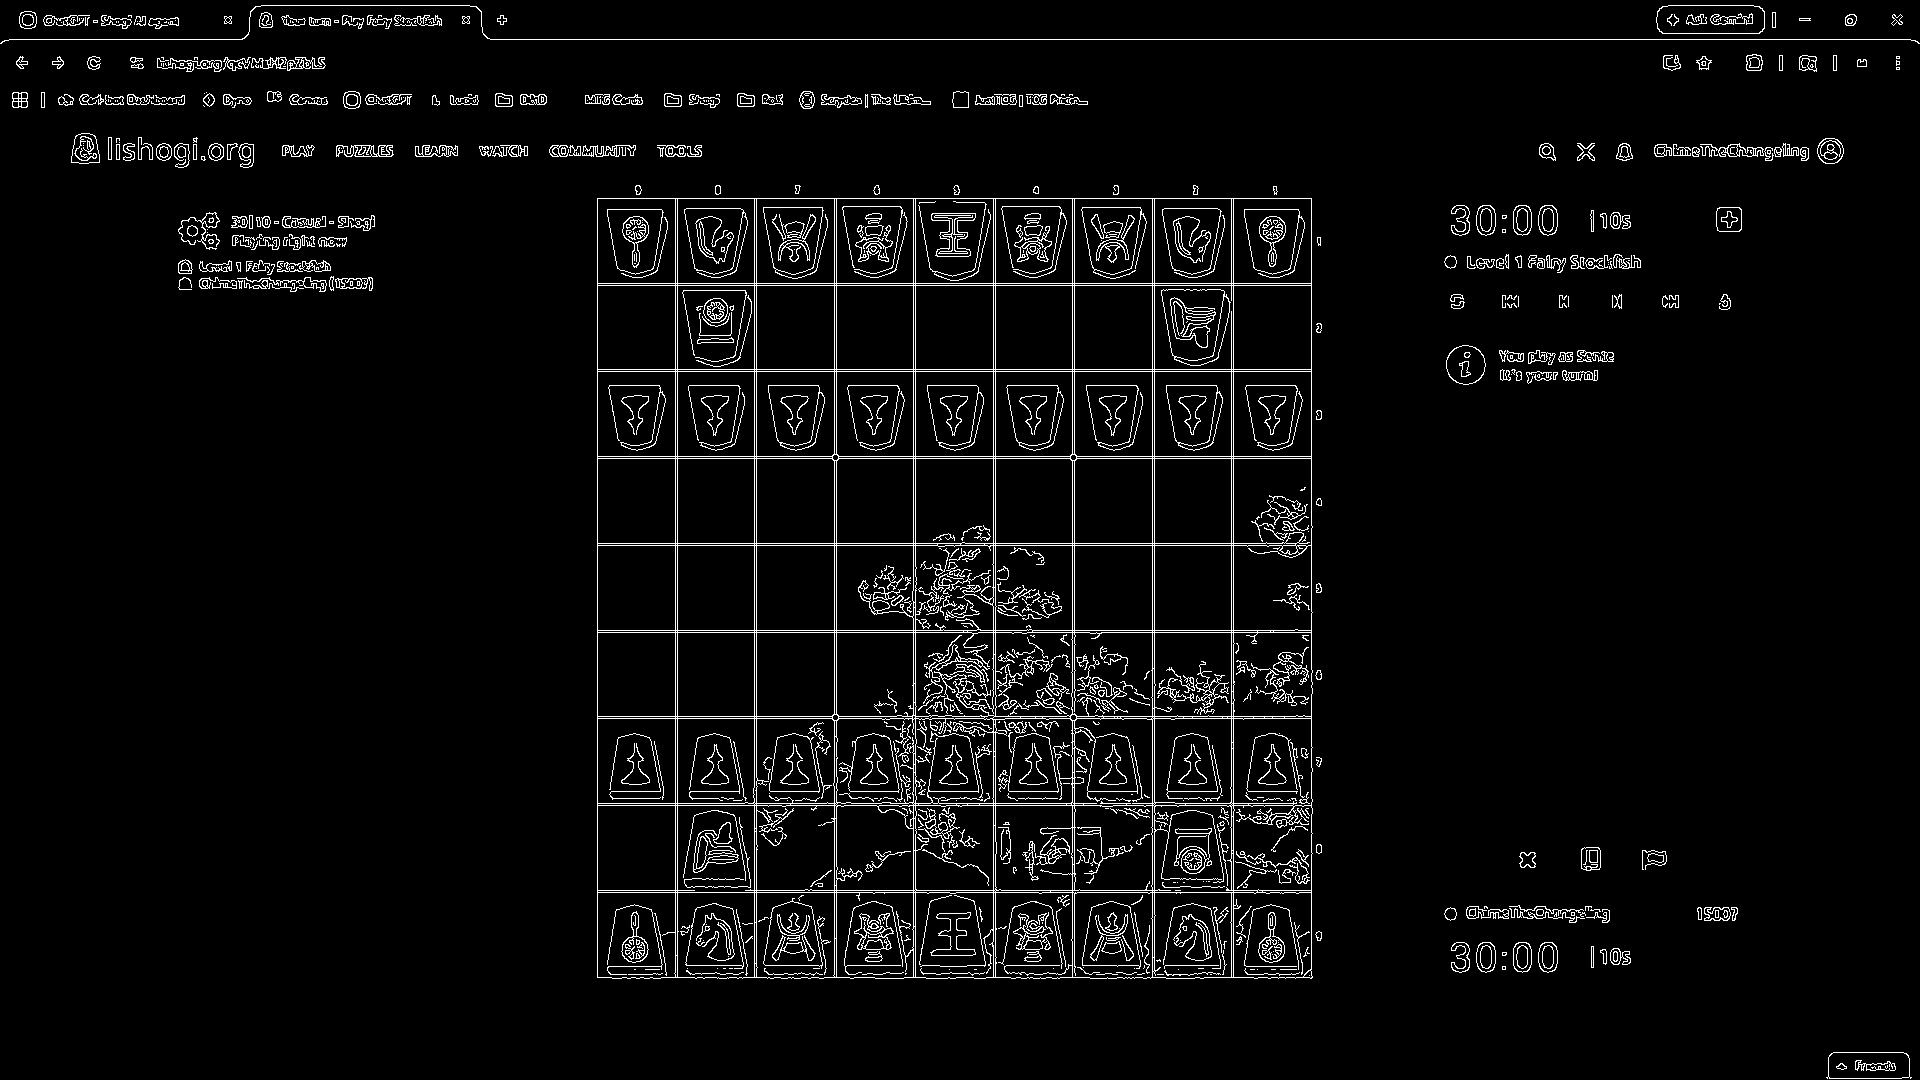
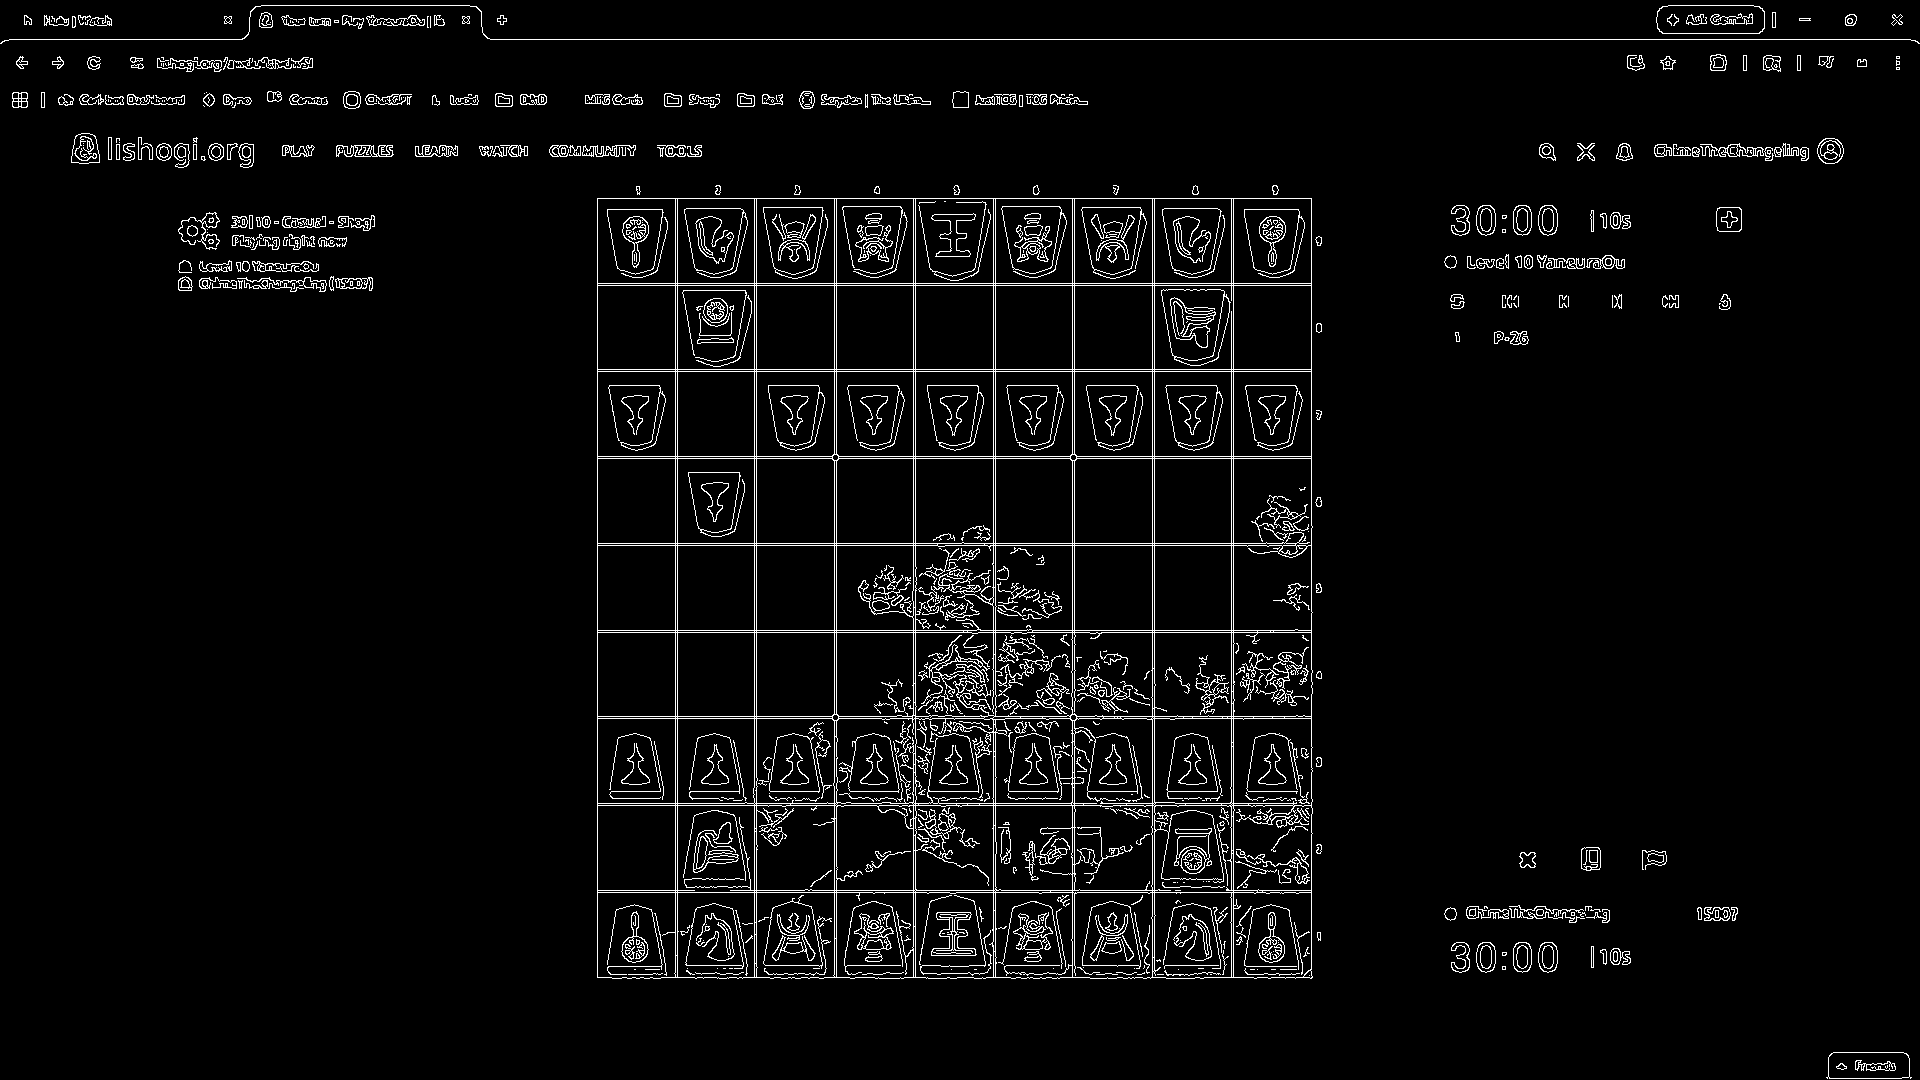
removed old models

diff --git a/shogiEngine.py b/shogiEngine.py
@@ -521,30 +521,100 @@ def move_ordering_bonus(position: Position, move: Move, side: str) -> int:
 
 #Capture-state integration 
 
-def parse_capture_label(label: str) -> Optional[Piece]:
+CAPTURE_EMPTY_LABELS = {"empty", ".", "blank", "unknown", ""}
+CAPTURE_PIECE_KINDS = {"P", "L", "N", "S", "G", "B", "R", "K"}
+HAND_PIECE_KINDS = {"P", "L", "N", "S", "G", "B", "R"}
+
+
+def _split_capture_side_and_piece(label: str) -> Tuple[Optional[str], str, bool]:
     """
-    Expected labels from the screen reader:
-      black_P, white_P, black_+P, white_+P, ...
-      or bP / wP / b+P / w+P
-    Empty / unknown labels return None.
+    Accepts labels such as:
+      goteL, senteP, gote+P, sente+R
+      black_P, white_P, black_+P, white_+P
+      bP, wP, b+P, w+P
+
+    Returns:
+      owner, piece_text, promoted
     """
-    if label in {"empty", ".", "blank", "unknown", ""}:
+    raw = str(label).strip()
+    compact = raw.replace(" ", "").replace("-", "_")
+    lower = compact.lower()
+
+    promoted = "+" in compact or "promoted" in lower
+
+    prefixes = [
+        ("sente", BLACK),
+        ("black", BLACK),
+        ("gote", WHITE),
+        ("white", WHITE),
+        ("b", BLACK),
+        ("w", WHITE),
+    ]
+
+    for prefix, owner in prefixes:
+        if lower.startswith(prefix):
+            rest = compact[len(prefix):]
+            return owner, rest, promoted
+
+    return None, compact, promoted
+
+
+def _clean_piece_kind(piece_text: str) -> str:
+    kind = (
+        piece_text
+        .replace("_", "")
+        .replace("+", "")
+        .replace("promoted", "")
+        .replace("PROMOTED", "")
+        .strip()
+        .upper()
+    )
+
+    if kind in CAPTURE_PIECE_KINDS:
+        return kind
+
+    raise ValueError(f"Unsupported capture piece kind: {piece_text}")
+
+
+def parse_hand_piece_kind(label: str) -> Optional[str]:
+    """
+    Converts hand-slot labels into engine piece kinds.
+    Accepts both plain piece labels, such as P/L/N/S/G/B/R,
+    and side-prefixed labels, such as senteP or goteL.
+    """
+    if label in CAPTURE_EMPTY_LABELS:
         return None
 
-    promoted = "+" in label
-    cleaned = label.replace("+", "")
+    _, piece_text, _ = _split_capture_side_and_piece(label)
+    kind = _clean_piece_kind(piece_text)
 
-    if "_" in cleaned:
-        side_str, kind = cleaned.split("_", 1)
-        owner = BLACK if side_str.lower().startswith(("b", "black", "sente")) else WHITE
-        return Piece(kind=kind.upper(), owner=owner, promoted=promoted)
+    if kind not in HAND_PIECE_KINDS:
+        return None
 
-    if len(cleaned) >= 2 and cleaned[0].lower() in {"b", "w"}:
-        owner = BLACK if cleaned[0].lower() == "b" else WHITE
-        kind = cleaned[1:].upper()
-        return Piece(kind=kind, owner=owner, promoted=promoted)
+    return kind
 
-    raise ValueError(f"Unsupported capture label format: {label}")
+def parse_capture_label(label: str) -> Optional[Piece]:
+    """
+    Converts screen-reader board labels into engine Piece objects.
+
+    Supported examples:
+      goteL, senteP, gote+P, sente+R
+      black_P, white_P, black_+P, white_+P
+      bP, wP, b+P, w+P
+
+    Empty / unknown labels return None.
+    """
+    if label in CAPTURE_EMPTY_LABELS:
+        return None
+
+    owner, piece_text, promoted = _split_capture_side_and_piece(label)
+
+    if owner is None:
+        raise ValueError(f"Unsupported capture label format: {label}")
+
+    kind = _clean_piece_kind(piece_text)
+
+    return Piece(kind=kind, owner=owner, promoted=promoted)
 
 
 def position_from_capture_state(
@@ -567,18 +637,19 @@ def position_from_capture_state(
             cell = board_rows[r][c]
             piece = parse_capture_label(cell["label"])
             pos.board[r][c] = piece
-
     for slot in capture_state.get("left_hand", []):
         piece = slot.get("piece", ".")
         count = int(slot.get("count", 0))
-        if piece not in {".", "empty", "blank", "unknown"} and count > 0:
-            pos.hands[left_hand_owner][piece.replace("+", "").upper()] += count
+        kind = parse_hand_piece_kind(piece)
+        if kind is not None and count > 0:
+            pos.hands[left_hand_owner][kind] += count
 
     for slot in capture_state.get("right_hand", []):
         piece = slot.get("piece", ".")
         count = int(slot.get("count", 0))
-        if piece not in {".", "empty", "blank", "unknown"} and count > 0:
-            pos.hands[right_hand_owner][piece.replace("+", "").upper()] += count
+        kind = parse_hand_piece_kind(piece)
+        if kind is not None and count > 0:
+            pos.hands[right_hand_owner][kind] += count
 
     return pos
 
